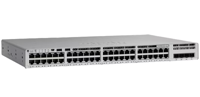
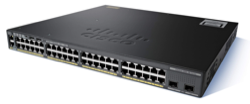
updated: cisco, coca-cola

diff --git a/stock/abbvie/reference.md b/stock/abbvie/reference.md
@@ -1,0 +1,1 @@
+- humira.png : Abbvie라고 출처를 밝히는 듯. https://www.fiercepharma.com/marketing/biomarins-commercial-chief-jeffrey-ajer-hits-exit-new-ceo-looks-boost-launch-voxzogo

diff --git a/stock/coca-cola/reference.md b/stock/coca-cola/reference.md
@@ -1,0 +1,1 @@
+- cola.png : Ralf Roletschek / Wikimedia https://commons.wikimedia.org/wiki/File:15-09-26-RalfR-WLC-0098_-_Coca-Cola_glass_bottle_(Germany).jpg#filelinks

diff --git a/stock/merck/reference.md b/stock/merck/reference.md
@@ -1,0 +1,1 @@
+- keytruda.png : Merck Sharp & Dohme Corp https://www.pharmaceutical-technology.com/news/merck-keytruda-china/?cf-view

diff --git a/stock/broadcom/reference.md b/stock/broadcom/reference.md
@@ -1,0 +1,1 @@
+- wired-connectivity: Broadcom https://www.broadcom.com/products/ethernet-connectivity

diff --git a/stock/amgen/reference.md b/stock/amgen/reference.md
@@ -1,0 +1,1 @@
+- epogen.jpeg : Amgen ESA https://www.amgenesas.com/epogen

diff --git a/stock/home-depot/reference.md b/stock/home-depot/reference.md
@@ -1,0 +1,1 @@
+- wood-board.jpeg : Home Depot

diff --git a/stock/cisco/reference.md b/stock/cisco/reference.md
@@ -1,0 +1,1 @@
+- catalyst-switch.png : Cisco
